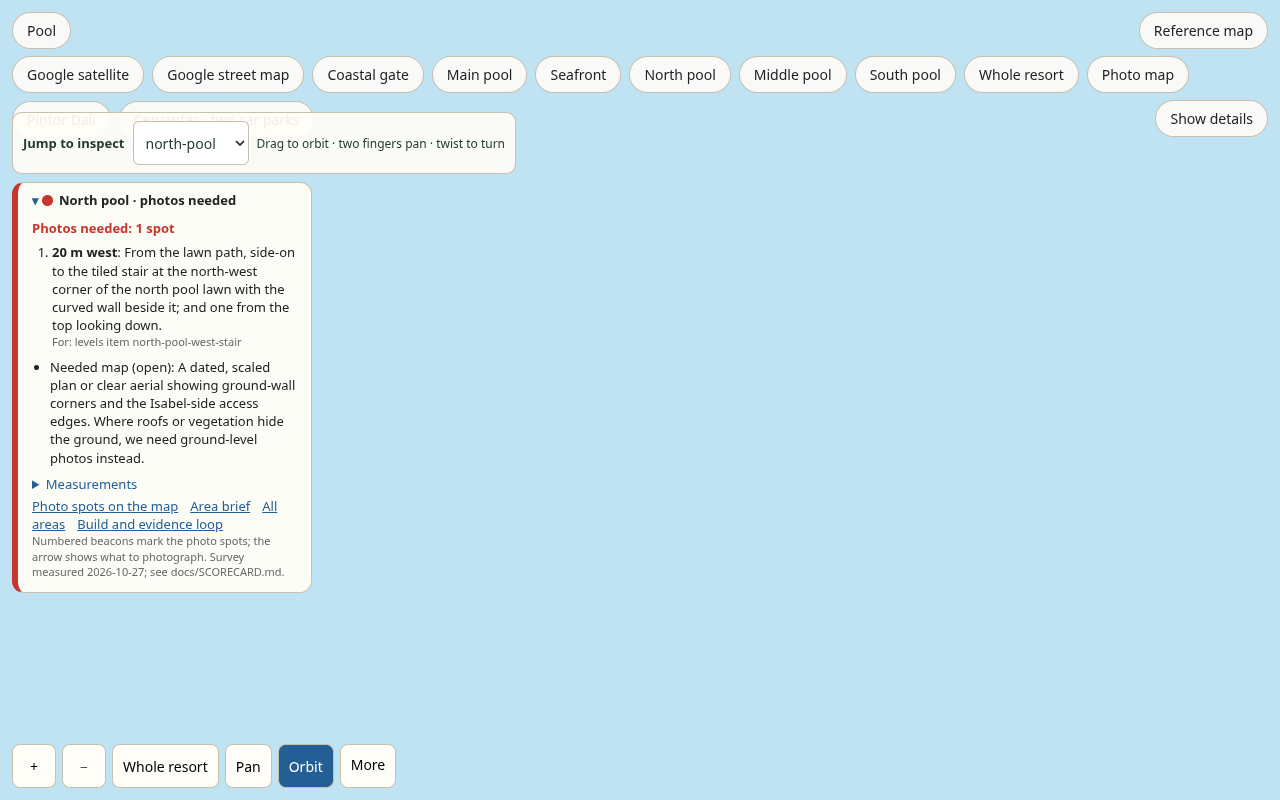
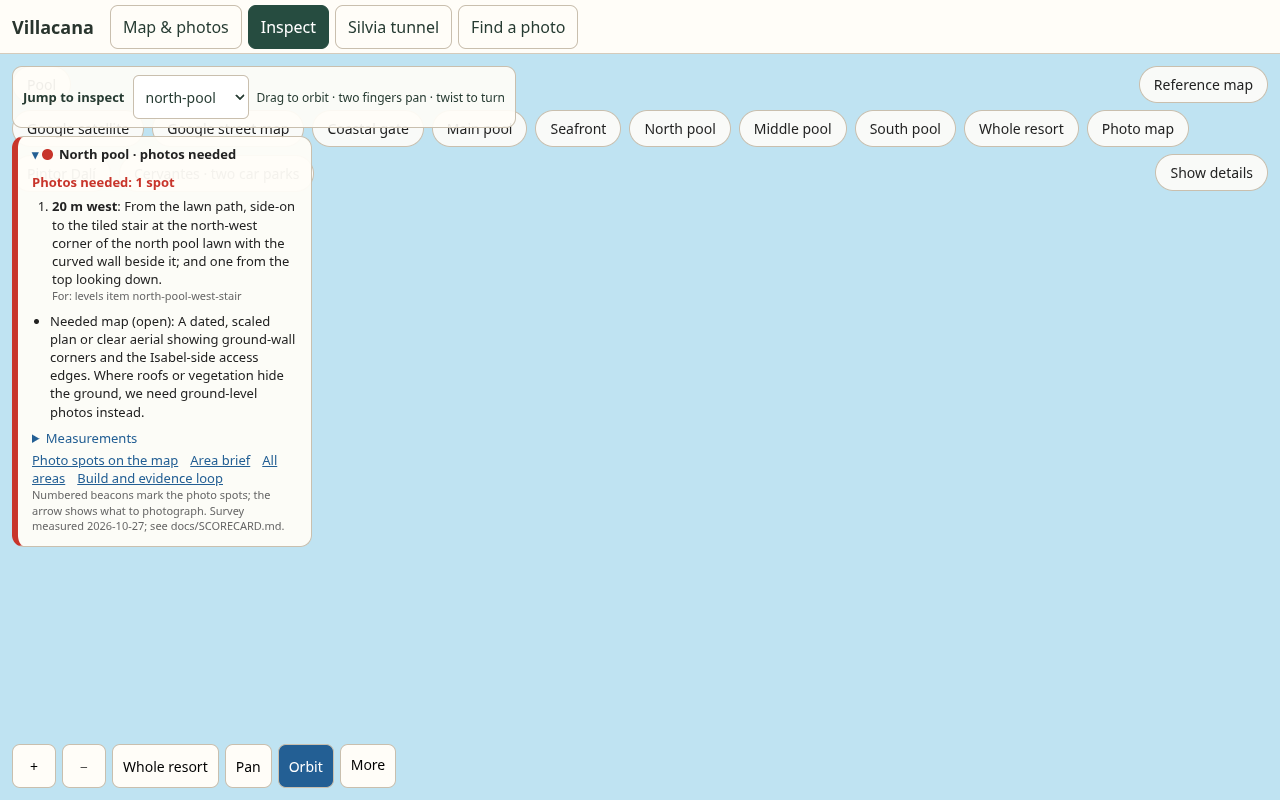
Forward scorecard requests through the canonical app and bound software raster cost

Changed region(s): [[0.0, 0.0, 1.0, 0.75]]

diff --git a/src/app.ts b/src/app.ts
@@ -26,7 +26,7 @@ function setView(view: View, history = true): void {
     const phone=navigator.maxTouchPoints>0&&matchMedia("(max-width:900px), (max-height:500px)").matches;
     if(view==="overview"&&phone&&!url.searchParams.has("details"))scene.searchParams.set("details","1");
     // Preserve old bookmarked scene focus/coordinates when opening the canonical app.
-    for (const key of ["details", "at", "look", "study", "place", "camera", "area"]) if (url.searchParams.has(key)) scene.searchParams.set(key, url.searchParams.get(key)!);
+    for (const key of ["details", "at", "look", "study", "place", "camera", "area", "scorecard"]) if (url.searchParams.has(key)) scene.searchParams.set(key, url.searchParams.get(key)!);
     if (selectedPoint && view === "overview" && !url.searchParams.has("area")) {
       const r = frameRotation * Math.PI / 180, [x, z] = selectedPoint;
       const turned = `${(x * Math.cos(r) - z * Math.sin(r)).toFixed(2)},${(x * Math.sin(r) + z * Math.cos(r)).toFixed(2)}`;

diff --git a/scripts/photo_loop.py b/scripts/photo_loop.py
@@ -94,6 +94,7 @@ def main():
             shutil.copyfile(overlay, directory / f'{Path(name).stem}-{args.phase}-overlay.jpg')
         print('Renders and overlays created. Inspect them against the photos and record findings; no automatic match is claimed.')
     if args.validate:
+        os.environ.setdefault('VILLACANA_TEST_DEVICE_SCALE', '0.5')
         if Path('/usr/bin/chromium').exists():
             os.environ.setdefault('PLAYWRIGHT_CHROMIUM_EXECUTABLE', '/usr/bin/chromium')
         for script in ('test_model_loop.py', 'test_photo_assignment.py', 'test_reference_index.py', 'test_placement_verification.py'):

diff --git a/docs/reviews/continuous-evidence-loop/README.md b/docs/reviews/continuous-evidence-loop/README.md
@@ -1,0 +1,21 @@
+# Continuous evidence loop: tooling verification
+
+This change adds workflow and UI tooling; it makes no geometry corrections or
+new placement/photographic acceptance claims. The initial north-pool findings
+remain two ready for comparison and two waiting for scoped evidence.
+
+The screenshots show the actual scorecard module in the existing slice HTML/CSS
+shell, with the renderer host isolated to keep the widget test independent of
+software WebGL startup. They are UI evidence, not renders of an accepted model:
+
+- [Desktop evidence flags](desktop-widget.png)
+- [Phone evidence flags with scorecard=1](phone-widget.png)
+
+Reproduce with `node scripts/test_scorecard_browser.cjs`. The separate
+`test_inspection_browser.cjs` and `test_photo_map_browser.cjs` exercise the real
+application; all run in the Continuous evidence loop workflow.
+
+Policy checks cover scoped blockers, photo receipt versus review, absent source
+access, dependencies/ownership, self-review, changed source/camera/model/artifact
+bytes, explicit height uncertainty, placement tolerance and retained history.
+Existing placement packets remain the authority for horizontal placement.

diff --git a/docs/CONTINUOUS_LOOP.md b/docs/CONTINUOUS_LOOP.md
@@ -97,6 +97,9 @@ answered through their existing review process. Map/measurement requests use
 The PR/push/daily/manual **Continuous evidence loop** Action builds the current app,
 checks the graph and Inspect, and uploads the current work list with outstanding
 requests. Missing evidence is reported rather than treated as a failed build.
+The UI integration checks use `VILLACANA_TEST_DEVICE_SCALE=0.5` in CI and through
+`--validate` to reduce software WebGL raster cost while retaining the same CSS
+viewports, pointer coordinates and actual renderer. Direct test runs default to 1.
 It does not run a model-editing agent or invent visual judgments. Continuous
 geometry improvements are performed by the agent recipe above; unattended
 model-editing requires an agent runner beyond deterministic CI.
